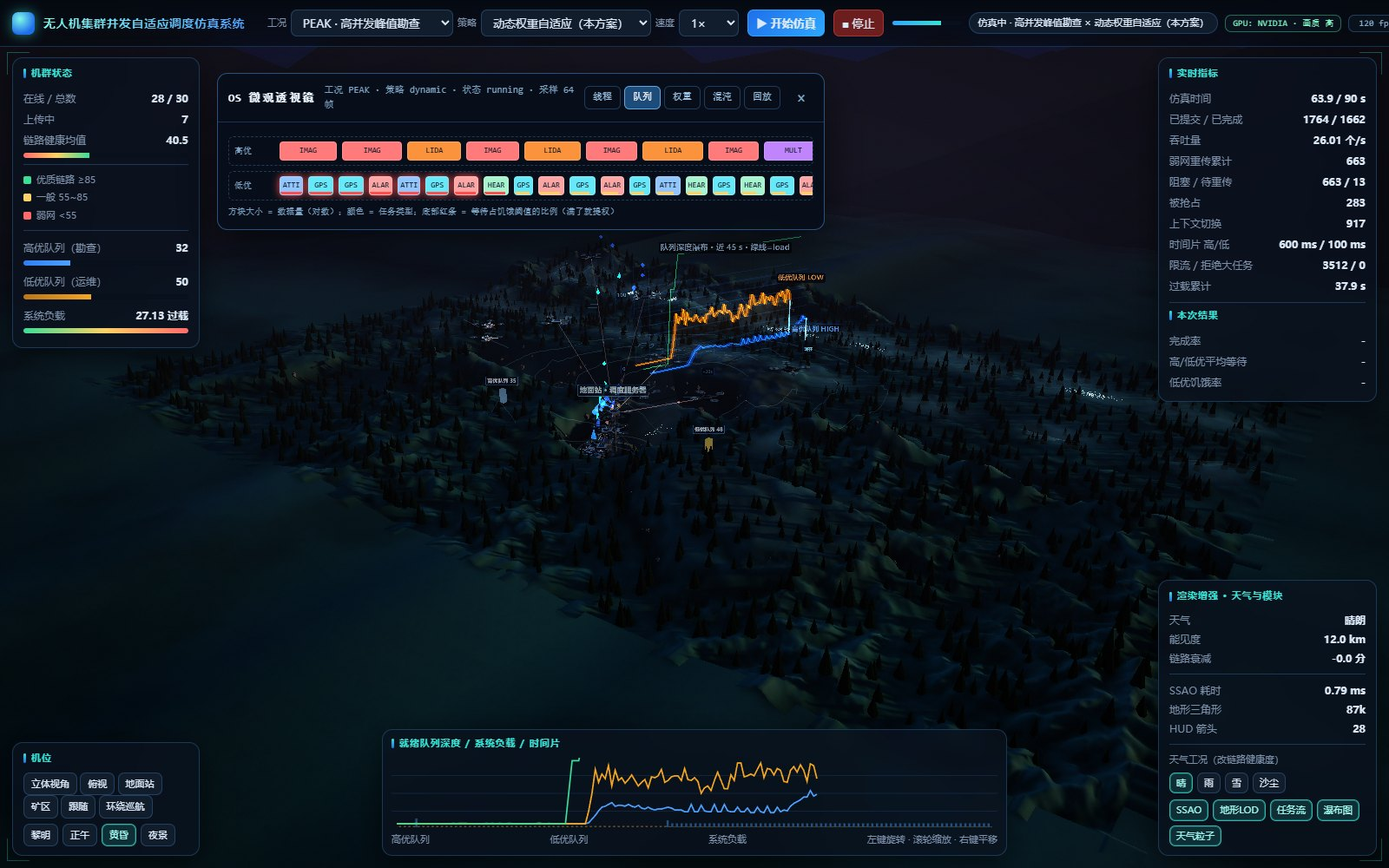
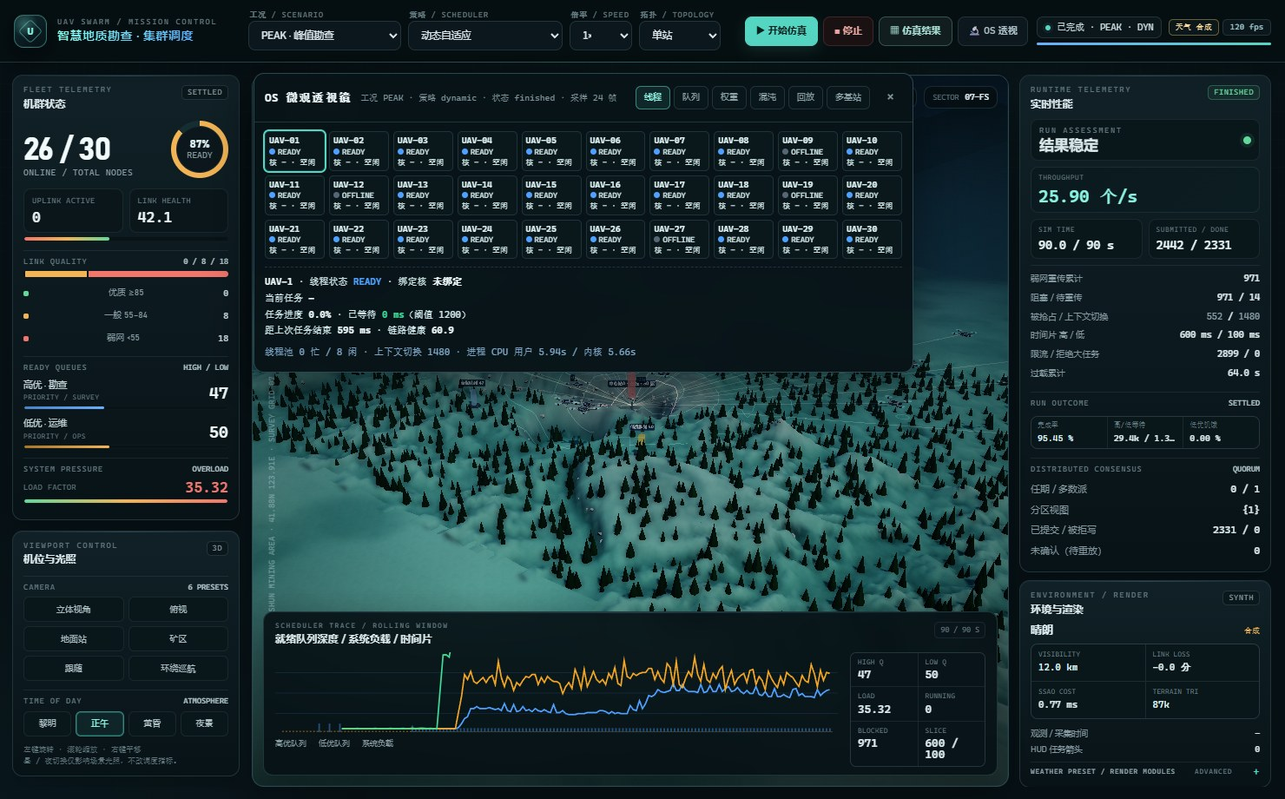
Rewrite UAV scheduling project page from the real project
- 完整读完 README 与 docs/01/04/06/11/12，重写项目页：桌面 3D 监控台、真实 DEM、五张实验矩阵、153 个测试
- 补上项目自己的指标口径批判：95% 完整率背后 HIGH 完成率仅 32.4%，静态优先级 60.3%
- 补上参数敏感性与负面发现：弱网加剧时链路感知没有时延优势
- 表格改为窄列，修复 PaperMod 的 table word-break: keep-all 导致的中文表格横向溢出
- 项目卡片文案改为「桌面 3D 监控台 · 6 种策略 · 5 张实验矩阵」

diff --git a/assets/css/extended/06-projects.css b/assets/css/extended/06-projects.css
@@ -93,6 +93,13 @@
   line-height: 1.75;
 }
 
+/* PaperMod ships `word-break: keep-all` on tables, so CJK cells refuse to
+   wrap and narrow project columns get a horizontal scrollbar. */
+.project-body table {
+  word-break: normal;
+  overflow-wrap: anywhere;
+}
+
 .project-side {
   position: sticky;
   top: calc(var(--header-h) + var(--space-lg));

diff --git a/content/projects/uav-sched-sim.md b/content/projects/uav-sched-sim.md
@@ -2,7 +2,7 @@
 slug: "uav-sched-sim"
 title: "无人机集群自适应调度仿真系统"
 titleLines: ["无人机集群自适应", "调度仿真系统"]
-description: "把矿区无人机集群的上传拥堵、任务饥饿、峰值过载与弱网失衡，下沉为线程调度、多级队列、动态权重与并发限流；3 工况 × 5 策略对照实验，外加跨节点负载均衡与 MEC 边缘计算。"
+description: "把矿区无人机集群的上传拥堵、任务饥饿、峰值过载与弱网失衡，下沉为线程调度、多级队列、动态权重与并发限流；桌面 3D 监控台 + 五张对照实验矩阵 + 可回溯的证据链。"
 date: 2026-11-02T14:30:00+08:00
 lastmod: 2026-11-02T14:30:00+08:00
 repo: "https://github.com/xuanwoLQL/uav-sched-sim"
@@ -17,129 +17,200 @@ comments: false
 
 ## 一句话
 
-同一份任务轨迹（固定 seed 离线生成），换调度策略各跑一遍，用统一口径的指标证明「多级队列 + 动态权重 + 饥饿补偿 + 限流稳流 + 链路感知」到底改善了什么、代价又是什么。
+同一份任务轨迹（固定 seed 离线生成），换调度策略各跑一遍，用统一口径的指标回答两件事：**多级队列 + 动态权重 + 饥饿补偿 + 限流稳流 + 链路感知到底改善了什么，代价又是什么。**
 
-这是《操作系统》课程实训工程：纯 Python 多线程，没有 asyncio、没有重型框架，核心逻辑只用标准库的 `threading` / `queue` / `concurrent.futures` / `statistics`。
+这是《操作系统》课程实训工程，但它不是一份跑分脚本，而是三样东西叠在一起：
+
+| 形态 | 是什么 | 入口 |
+| --- | --- | --- |
+| **仿真内核** | 纯 Python 多线程，13 个核心模块，可批处理复现实验 | `run.py all` |
+| **桌面 3D 监控台** | pywebview + WebView2 + Three.js，真实 DEM 地形、30 架无人机、OS 透视镜 | `启动仿真软件.bat` / 13.9 MB 单文件 exe |
+| **证据链** | CSV / JSON / MySQL 长表 / 10 类图表 / 结果界面 / Trace 回放 | `results/`、`📊 仿真结果` |
+
+仿真内核只用标准库的 `threading` / `queue` / `concurrent.futures` / `statistics`，没有 asyncio，也没有调度框架；展示层才用 pywebview 与 Three.js。
 
 ## 四层映射：业务故障 → OS 原理
 
-项目的起点不是「写一个调度算法」，而是五类现场故障。每一类都要先落到操作系统原理，再写成算法，最后拿指标验证。
+| 业务现象 | OS 原理 | 算法对策 |
+| --- | --- | --- |
+| 30 架机同时上传，地面站通道被打满 | 多生产者并发写就绪队列 → 队列溢出 / 背压 | 双队列隔离 + 容量上限 + 满则计数丢弃 |
+| 心跳、GPS、告警长期传不上去 | 任务饥饿：低优先级等待时间无上界 | 饥饿检测（>15 s）+ 硬补偿通道 + 权重倍增 |
+| 2 GB 点云排到队首，告警包全被堵住 | 队头阻塞 / 非抢占调度的护航效应 | 时间片 + 真实抢占，时间片随拥堵自适应 |
+| 瞬时峰值把 CPU / IO 打满 | 资源耗尽 + 缺少并发限流 → 雪崩 | 并发许可 + 非阻塞准入，拿不到就留在队列错峰 |
+| 弱网任务反复重传、抢走通道 | I/O 阻塞未降级 + 设备状态未参与调度 | 链路健康度并入权重，<40 降权 0.6，失败本地缓存 |
+| 参数全部人工预设，换工况就失配 | 静态优先级 / 固定时间片 | 四因子权重实时计算，不依赖手工整定 |
 
-| 业务现象 | OS 原理 | 算法对策 | 可观测证据 |
-| --- | --- | --- | --- |
-| 30 架机同时上传，地面站通道被瞬时打满 | 多生产者并发写就绪队列 → 队列溢出 / 背压 | 双队列隔离 + 容量上限 + 满则计数丢弃（不阻塞生产者） | `peak_queue_depth`、`max_high_depth`、`max_low_depth` |
-| 心跳、GPS、告警长期传不上去，设备「失联」 | 任务饥饿：低优先级进程等待时间无上界 | 饥饿检测（等待超阈值）+ 硬补偿通道 + 权重倍增 | `starvation_rate_low`、任务级 `wait_ms` 排序 |
-| 2 GB 点云排到队首，后面的告警包全被堵住 | 队头阻塞 / 非抢占调度的护航效应 | 时间片 + 真实抢占（未完成回队尾），时间片随拥堵自适应 | `context_switch`、`avg_requeue`、`p95_wait_high_ms` |
-| 瞬时峰值把 CPU / IO 打满，服务阻塞 | 资源耗尽 + 缺少并发限流 → 雪崩 | 并发许可 + 非阻塞准入：拿不到许可就留在队列错峰 | `throttle_count`、`overload_seconds`、`running_count ≤ 8` |
-| 弱网任务反复重传、抢走通道，好链路反而排不上 | I/O 阻塞未降级 + 设备状态未参与调度 | 链路健康度并入权重；健康度低于 40 降权 0.6；失败的转本地缓存退避 | `retry_rate`、`cached` 计数、`link_sample.health` |
+每一行都有对应的可观测证据：队列深度、低优饥饿率、上下文切换与 P95 等待、限流与过载秒数、重传率与缓存条数、参数敏感性三组对照。具体字段名与 SQL 查询见 `docs/04` 与 `docs/05`。
 
 完整 20 行映射（含代码位置与证据表）在仓库的 `docs/04-四层映射对照表.md`。
 
-## 系统怎么搭
+## 架构与关键实现
 
-| 模块 | 职责 | 关键实现 |
+| 模块 | 职责 | 关键点 |
 | --- | --- | --- |
 | 仿真内核 | 30 个生产者线程按预生成时刻表提交任务，8 个工作线程消费 | `simulator.py`、`station.py` |
-| 两级就绪队列 | 高优勘查队列 / 低优运维队列，各自计算拥堵度 | `queue_manager.py` |
+| 两级就绪队列 | 高优勘查 / 低优运维，各自计算拥堵度 | `queue_manager.py` |
 | 任务状态机 | `NEW / READY / RUNNING / BLOCKED / CACHED / DONE / DROPPED` | `models.py` |
 | 资源限流 | `OK / THROTTLE / REJECT_LARGE / QUOTA` 四种准入结果 | `resource_limiter.py` |
-| 链路模型 | 时延、丢包、RSSI 综合成 0~100 健康度，既折算有效带宽，也决定失败概率 | `link_monitor.py` |
-| 调度器 | 5 种经典策略 + 1 种跨节点策略，统一接口 | `scheduler/*.py` |
-| 落地 | 指标进 MySQL 长表，图表进 `results/`，实验可回放 | `db.py`、`experiment.py`、`visualize.py` |
+| 链路模型 | 时延、丢包、RSSI → 0~100 健康度，既折算带宽也决定失败概率 | `link_monitor.py` |
+| 调度器 | 5 种经典策略 + `cross_node` 跨节点策略，统一接口 | `scheduler/*.py` |
+| 分布式 | 每站一套线程池 / 队列 / 限流器，接入站 ≠ 算力站 | `station.py`、`mec.py` |
+| 统计 | t 分位数、95% 置信区间、配对检验（零第三方依赖） | `statistics.py`、`replication.py` |
+| 持久化 | MySQL 8 表 1 视图，数据库不可用时优雅降级为 CSV/JSON | `db.py`、`sql/01_schema.sql` |
 
-关键约束是**控制变量**：任务到达与链路质量全部离线预生成为轨迹，5 种策略只是回放同一条输入，服务时长、限流参数和指标口径完全共用。这样策略之间的差异才是算法差异，不是随机数差异。
+关键约束是**控制变量**：任务到达与链路质量离线预生成为轨迹，5 种策略只回放同一条输入。测试里直接断言「同 `(code, seed)` 两次生成的轨迹逐元素相同」，并用 SHA-256 + 1e-9 精度守住单站基线。
 
 ## 六种调度策略
 
-| 策略 | 一句话 | 在实验里的角色 |
+| 策略 | 一句话 | 角色 |
 | --- | --- | --- |
-| `fcfs` | 全局先来先服务，跨两个物理队列按到达顺序取 | 最公平的基线，用来暴露护航效应 |
-| `rr` | 固定 500 ms 时间片，未完成回队尾 | 基线：轮转能救饥饿，但切换开销高 |
-| `priority` | 高队列非空则低队列永远轮不到 | 反面教材：刻意复现饥饿 |
-| `mlfq` | 分层时间片 300 / 800 ms，低队列等超 1500 ms 可升权 | 经典解法，饥饿率降到 0 |
-| `dynamic` | 四因子动态权重 `W = base × (w0 + αQ + βW + γL) × (1 − δS)`，叠加饥饿硬补偿与弱网降权 | 本方案主角 |
-| `cross_node` | 在多基站之间做一致性哈希 + 负载感知再平衡 | 能力扩展：站间不均衡度下降一个数量级 |
+| `fcfs` | 跨两个物理队列按全局到达顺序取 | 基线，暴露护航效应 |
+| `rr` | 固定 500 ms 时间片，未完成回队尾 | 基线：能救饥饿，切换开销高 |
+| `priority` | 高队列非空则低队列永远轮不到 | 反面教材：复现饥饿 |
+| `mlfq` | 300 / 800 ms 分层时间片，低队列等超 1500 ms 升权 | 经典解法 |
+| `dynamic` | `W = base × (w0 + αQ + βW + γL) × (1 − δS)`，叠加饥饿硬补偿与弱网降权 | 本方案主角 |
+| `cross_node` | 继承 `dynamic`，站间再做最少连接 + 一致性哈希（64 虚拟节点） | 分布式扩展 |
 
-`dynamic` 的四个因子分别是队列拥堵度 `Q`、已等待时长 `W`、链路健康度 `L` 和系统负载 `S`。拥堵的队列多拿资源，等久的低优任务被补偿，弱网任务降权，系统过载时整体收敛。
+`cross_node` 最初被写成独立的严格优先级调度，单站完整率只有 31.7%；重构为继承 `dynamic` 后回到 95.6%。**跨节点均衡解决的是站与站之间的不均，不能替掉站内的公平性与过载收敛。**
 
-## 实验设计：3 工况 × 5 策略
+## 五张实验矩阵
 
-| 项 | 数值 |
-| --- | --- |
-| 工况 | 轻载日常巡检 / 中载常规勘查 / 高并发峰值勘查 |
-| 规模 | 30 架无人机、90 仿真秒、峰值工况 2756 条到达事件 |
-| 对照矩阵 | 3 × 5 = 15 组，另有第 6 种策略 `cross_node` 与多站矩阵 |
-| 指标 | 24 个统一口径指标；多基站 / MEC 另定义 18 个站级指标键 |
-| 数据量 | 15 条 experiment、360 条 exp_metric、14776 条 task_record、1800 条 queue_sample、16604 条 link_sample |
+| 矩阵 | 规模 | 产物 |
+| --- | --- | --- |
+| 基础对照 | 3 工况 × 5 策略 = 15 组 | `results/summary.csv`（15 行 × 24 指标）+ 7 张图 |
+| 天气对照 | 4 天气 × 5 策略 = 20 组 | `results/weather_matrix.csv` + 图表 08 |
+| 多站对照 | 3 工况 × 6 策略 = 18 组 | `results/stations/stations_matrix.csv` + 图表 10 |
+| MEC 对照 | PEAK × 3 模式 × 2 策略 = 12 组 | `results/mec/mec_matrix.csv` |
+| 重复 / GPU | 每格 N 次（CRN）+ CUDA 3000 次 | `results/replications/`、`results/gpu/` |
 
-所有组共用同一个 `random.Random(seed)` 顺序消费生成轨迹，测试里直接断言「同 `(code, seed)` 两次生成的轨迹逐元素相同」。
+规模：轻载 30 s / 5 架，中载 60 s / 15 架，峰值 90 s / 30 架、2767 个事件。标定负载率分别是 **0.21 / 0.78 / 1.57**，与 PDF 的「极少 / 偶尔 / 频繁严重堆积」逐档对应。
 
-## 结果：不只看均值，还看抖动
+完整一轮跑完约 100 秒，落 15 条 experiment、360 条 exp_metric、14776 条 task_record、1800 条 queue_sample、16604 条 link_sample。
 
-仿真依赖真实时钟，同一组实验重复跑有 3~5% 的抖动，单次结果分不清算法差异和运行噪声。于是补了一条 CUDA 分析模型：**一个 CUDA 线程 = 一次完整仿真**，用共同随机数做配对比较。
+## 真实结果：先看峰值工况
 
-RTX 3050 Laptop，`--reps 3000`，均值 ± 95% 置信半宽：
+PEAK 工况、seed 20261031，15 组中的 5 行（`results/summary.csv`）：
 
-| 策略 | 3000 次耗时 | 吞吐（任务/秒） | 低优平均等待 | 低优饥饿率 | 业务完整率 |
-| --- | ---: | ---: | ---: | ---: | ---: |
-| FCFS | 251 ms | 21.64 ± 0.13 | 6558 ± 112 ms | 8.31 ± 0.28 % | 69.26 ± 0.40 % |
-| RR | 285 ms | 29.78 ± 0.03 | 803 ± 13 ms | 0.00 % | 95.32 ± 0.06 % |
-| 静态优先级 | 133 ms | 8.84 ± 0.10 | 869 ± 9 ms | 0.55 % | 28.30 ± 0.31 % |
-| 动态权重 | 258 ms | 28.07 ± 0.04 | 3680 ± 23 ms | 0.48 % | 89.79 ± 0.15 % |
-| MLFQ | 313 ms | 29.69 ± 0.02 | 1580 ± 10 ms | 0.00 % | 94.94 ± 0.03 % |
+| 策略 | 吞吐（个/s） | 等待 高 / 低 | 低优饥饿率 | 业务完整率 |
+| --- | ---: | ---: | ---: | ---: |
+| FCFS | 15.14 | 34.3 / 24.1 s | 66.2 % | 55.8 % |
+| RR | 25.13 | 25.9 / 2.26 s | 0.2 % | 92.4 % |
+| 静态优先级 | 8.86 | **21.3** / 29.9 s | 65.7 % | 32.6 % |
+| MLFQ | **26.04** | 26.0 / **1.11 s** | **0.0 %** | **95.9 %** |
+| 动态权重 | 25.86 | 29.9 / 1.34 s | **0.0 %** | 95.2 % |
 
-15000 次仿真约 1.24 秒，约 12097 次/秒，置信区间收窄到 0.1% 量级。
+几件必须一起说的事：
 
-两个结论值得单独写出来：
+- 静态优先级把 8 个槽位几乎全给了勘查任务：高优等待最低（21.3 s）、资源利用率最高（72.6%），但低优饥饿率 65.7%，**这就是 PDF 痛点④的教科书式复现**。
+- FCFS 并不"保护弱者"：大任务护航让告警小包排在巨量数据后面，饥饿率同样 66.2%。
+- 动态权重用 1443 次上下文切换（比 MLFQ 的 2135 少 32%），维持了同一档吞吐与完整率，并保持零饥饿；代价是高优等待比 MLFQ 更长——它愿意让低优任务先过。
 
-1. **模型确认通过**：最差策略 `priority` 的吞吐偏差只有 −0.2%，MLFQ 完整率偏差 −1.0%，策略排序与参考模型一致。
-2. **参数扫描给了个反直觉结果**：α / β / γ / δ 对业务完整率的影响约 0.00 个百分点，而饥饿阈值 `starvation_ms` 的影响高达 47.8 个百分点。在 PEAK 过载下，绝大多数低优任务是被「饥饿硬补偿通道」直接救出来的，四因子权重根本没参与决策。所以报告里不该把「动态权重公式」当成主要卖点——这条写进了 `gpu/README.md` 第 5 节。
+## 最值得看的一张表：95% 完整率并不等于核心数据不丢
+
+`completion_rate` 按**任务条数**统计，而 PEAK 里勘查任务只占条数的 2.8%，运维任务占 97.2%。把优先级拆开（`docs/01` §A.3）：
+
+| 策略 | 勘查任务数 | 勘查完成率 | 运维完成率 |
+| --- | ---: | ---: | ---: |
+| 静态优先级 | 68 | **60.3 %** | 31.8 % |
+| FCFS | 68 | 38.2 % | 56.3 % |
+| 动态权重 | 68 | **32.4 %** | 97.0 % |
+| MLFQ | 68 | 22.1 % | 98.0 % |
+| RR | 68 | 17.6 % | 94.5 % |
+
+结论很刺眼，但项目没有回避：
+
+1. 按条数看，动态 / MLFQ / RR 的 92%~96% 远好于静态优先级的 32.6%；
+2. 按核心业务看，**静态优先级反而最高（60.3%）**，因为它不为公平性让路；
+3. 动态权重的定位是「愿意为运维让路的策略里，勘查完成率最高」，是折中点最优，**不是全面最优**。
+
+这也是页面标题不写「最优调度」的原因。改进方向已经写进文档：按字节加权统计完整率、对 HIGH 任务不做弱网降权、给饥饿硬通道加每轮配额。
+
+## 参数敏感性：静态参数为什么不可靠
+
+固定 PEAK 工况，只改一个参数：
+
+| 对照 | 低优等待 | 低优饥饿率 | 业务完整率 |
+| --- | ---: | ---: | ---: |
+| MLFQ aging 1500 → 6000 ms | 1.11 → 4.02 s | 0 % | 95.7 → 91.6 % |
+| RR 时间片 120 → 500 → 3000 ms | 0.66 → 2.20 → 8.76 s | 0 → 0.2 → 27.0 % | 96.1 → 92.3 → 75.3 % |
+| 弱网加剧（`retry_gain` 0.5 → 0.9） | dynamic 1.99 s / mlfq 1.17 s | 0.1 % / 0 % | 93.2 % / 95.2 % |
+
+同一算法换个参数就从 96% 掉到 75%，不存在一个"最好的固定时间片"。**这条实验就是 PDF 痛点④「静态参数固化」的量化证据。**
+
+第三组还记录了一个负面结果：弱网加剧后，动态权重的高优时延反而最高（33.0 s vs MLFQ 28.1 s）——「本地缓存」把弱网任务推迟得更久，抬高了均值。**链路感知在这组实验里没有表现出时延优势**，项目把它原样写进了改进方向。
+
+## GPU：把「跑一次」变成「跑三千次」
+
+Python 参考模型要跑几万次不现实，于是写了 CUDA 分析模型：**一个线程 = 一次完整仿真**，五个策略语义与 Python 版一一对应，所有重复共享共同随机数做配对比较。
+
+RTX 3050 Laptop，`--reps 3000`（单策略 133~313 ms 跑完）：
+
+| 策略 | 吞吐 | 低优平均等待 | 低优饥饿率 | 业务完整率 |
+| --- | ---: | ---: | ---: | ---: |
+| FCFS | 21.64 | 6.56 s | 8.31 % | 69.26 % |
+| RR | 29.78 | 0.80 s | 0.00 % | 95.32 % |
+| 静态优先级 | 8.84 | 0.87 s | 0.55 % | 28.30 % |
+| 动态权重 | 28.07 | 3.68 s | 0.48 % | 89.79 % |
+| MLFQ | 29.69 | 1.58 s | 0.00 % | 94.94 % |
+
+上表为 3000 次均值，95% 置信半宽都很小：吞吐 ≤ 0.13、时延 ≤ 112 ms、饥饿率 ≤ 0.28 个百分点、完整率 ≤ 0.40 个百分点。15000 次仿真约 1.24 秒，约 12097 次/秒。
+
+参数扫描还给出一个反直觉结论：α / β / γ / δ 四因子对业务完整率的影响约 **0.00 个百分点**，而饥饿阈值 `starvation_ms` 的影响高达 **47.8 个百分点**。在 PEAK 过载下，绝大多数低优任务是被「饥饿硬补偿通道」直接救出来的，四因子权重根本没参与决策。所以报告里不该把权重公式当主要卖点——这条写在 `gpu/README.md` 第 5 节。
 
 > GPU 内核是**分析模型**，不是参考模型的逐位复刻（未含离线标定轨迹、任务分片、单机配额、天气扰动）。它只用于策略排序与效应方向的统计推断，不能替代参考模型给绝对指标。
 
-## 多基站与 MEC：均衡是有代价的
+## 多基站 / MEC / 最小 quorum
 
-| 策略 | 模式 | 端到端时延 | 平均等待 | 完整率 | 站间不均衡度 |
-| --- | --- | ---: | ---: | ---: | ---: |
-| `dynamic` | 纯中心 | 122.7 ms | 2139 ms | 95.02 % | 0 |
-| `dynamic` | 端-边-云 | 106.4 ms（−13.3 %） | 1842 ms | 96.15 % | 1.401 |
-| `cross_node` | 纯中心 | 140.5 ms | 2071 ms | 94.93 % | 0 |
-| `cross_node` | 端-边-云 | 106.3 ms（−24.3 %） | 1864 ms | 95.70 % | 1.399 |
-| `dynamic` | 多站-无 MEC | 96.9 ms | 1971 ms | 95.21 % | 0.534 |
-| `cross_node` | 多站-无 MEC | 124.5 ms | 2190 ms | 95.16 % | **0.099** |
+把单机内核扩成 N 个基站，每站一套独立的线程池、队列与限流器。**接入站 ≠ 算力站**：迁移只搬任务，不改无人机接入点。
 
-- **端-边-云降端到端时延**：−13.3% / −24.3%，两次方向一致。
-- **`cross_node` 的价值在多站-无 MEC 档最清楚**：站间不均衡度 0.534 → 0.099，同一代码两次运行在 0.02~0.10 波动，稳定结论是「下降一个数量级」。
-- **代价必须一起写**：1053 次迁移、平均迁移代价 519.8 ms，平均等待从 1971 ms 涨到 2190 ms（约 +11%）。均衡度是用等待换来的。
-- **端-边-云档不均衡度降不下来（1.399）**：MEC 角色硬约束把重勘查任务钉在中心站，站间负载结构性地分开，这是设计要求，不是缺陷。
+| 场景 | 端到端时延 | 完整率 | 站间不均衡度 |
+| --- | ---: | ---: | ---: |
+| `dynamic` · 纯中心 | 122.7 ms | 95.02 % | 0 |
+| `dynamic` · 端-边-云 | 106.4 ms（−13.3 %） | 96.15 % | 1.401 |
+| `cross_node` · 端-边-云 | 106.3 ms（−24.3 %） | 95.70 % | 1.399 |
+| `dynamic` · 多站-无 MEC | 96.9 ms | 95.21 % | 0.534 |
+| `cross_node` · 多站-无 MEC | 124.5 ms | 95.16 % | **0.099** |
 
-另外补了一致性哈希再平衡（增删站只迁约 1/N 的键）和分区期间的最小 quorum 共识，都用测试覆盖了脑裂、节点宕机与分区恢复。
+- **均衡是有代价的**：`cross_node` 把站间不均衡度从 0.534 压到 0.099（下降一个数量级），代价是 1053 次迁移、平均 519.8 ms，平均等待从 1971 ms 涨到 2190 ms（**+11%**）。
+- **端-边-云降时延**：−13.3% / −24.3%，方向一致；MEC 档不均衡度降不下来（1.399）是因为角色硬约束把重勘查钉在中心站，这是设计而非缺陷。
+- **一致性哈希再平衡**：加站 3→4 只重映射 28.82%，删站 3→2 是 30.30%，且变化方向全部单调。
+- **最小 quorum（教学用，不是 Raft）**：N=3 脑裂 `{1} | {2,3}` 时，少数派完成的 1 个任务被回滚，多数派提交 2 个；恢复后重放，3 个任务一个不丢。
 
-## 可观测性：把调度过程摊开
+## 3D：真实地形、SSAO 与 120 帧
 
-### 3D 仿真场景
+桌面版不是"网页套壳"，而是 pywebview + 系统 WebView2 的原生窗口，关窗即退，没有地址栏。场景里的地形是**真实 DEM**：
 
-真实 DEM 地形、SSAO、地形 LOD、雨 / 雪 / 沙尘天气、无人机模型与链路连线。链路颜色随健康度变化，地面站负载圈层由绿到红，队列深度和系统负载在底部实时画曲线。
+| 项 | 值 |
+| --- | --- |
+| 数据源 | AWS `elevation-tiles-prod`（Mapzen Terrarium，NASA SRTM 等多源合成，免密钥） |
+| 区域 | 辽宁抚顺西露天矿及周边，坑长约 6.6 km，最深处约 −420 m |
+| 网格 | 1024 × 760，14.2 m/px，海拔 −281 ~ +237 m，覆盖 14.6 × 10.8 km |
+| 优化 | 4 级地形 LOD clipmap（76k 三角形）、真 SSAO、30 架机 482 draw call |
+| 天气 | 雨 / 雪 / 沙尘粒子 + 能见度衰减 + 色彩分级，与链路健康度联动 |
 
-### OS 微观透视镜
+按 WebGL 渲染器自动分三档（独显 high / 核显 medium / 软件渲染 cpu），顶栏直接显示实际后端与帧率。RTX 3050 上四场景各采样 12 s：**117.8 ~ 120 fps，P99 11.0 ~ 11.7 ms，掉帧率 0%**；把像素量放大 9 倍仍保持 117.8 ~ 120 fps。
 
-![OS 微观透视：两级就绪队列传送带，方块大小=数据量、颜色=任务类型、红条=饥饿倒计时](/images/projects/uav-sched-sim/os-inspector.jpg)
+天气不只是视觉：沙尘把链路健康度均值从 42.78 压到 18.02，劣质链路占比 54.0% → 94.4%；同一沙尘批次里，动态权重完成率 92.3%、静态优先级 31.3%，低优饥饿率 0% vs 52.6%。
+
+## OS 微观透视与混沌工程
+
+![OS 微观透视：30 个线程的五态、两级就绪队列传送带、四因子权重天平与混沌注入](/images/projects/uav-sched-sim/os-inspector.jpg)
 
 | 页签 | 看什么 |
 | --- | --- |
 | 线程 | 30 架机 = 30 个线程，五态色块、绑核 `C0~C7`、当前任务、等待与切换间隔 |
-| 队列 | 两级队列的传送带，方块大小是数据量，颜色是任务类型，底部红条是饥饿倒计时 |
-| 权重 | 四因子雷达 + 高 / 低候选的权重天平，标出「饥饿提权 / 弱网降权」 |
-| 混沌 | 弱网风暴 / 并发洪峰 / 死锁注入 + 看门狗回收计数 |
+| 队列 | 两级队列传送带，方块大小=数据量，颜色=任务类型，红条=饥饿倒计时 |
+| 权重 | 四因子雷达 + 高 / 低候选权重天平，标出「饥饿提权 / 弱网降权」 |
+| 混沌 | 弱网风暴 / 并发洪峰 / 死锁注入 + 节点宕机 / 网络分区 / 脑裂 |
 | 回放 | 600 帧环形缓冲拖动复盘，Trace 可导出 JSON / CSV |
 
-三个混沌注入都做了真实现：弱网风暴把选中 40% 的无人机 `p_fail × 2.5`；并发洪峰一次塞 500 个高优任务，实测高优队列冲到 507、系统负载 348、限流触发；死锁注入后看门狗 3 仿真秒判定并强制回收。
+三个混沌注入都是真实现：弱网风暴把 40% 无人机的 `p_fail × 2.5`；并发洪峰一次塞 500 个高优任务，实测高优队列冲到 507、系统负载 348；死锁注入后看门狗 3 仿真秒判定并强制回收。
 
-### 仿真结果界面
+## 结果界面：不用再翻文件夹找图
 
-![仿真结果界面：按目录分组的实验图表，每张标生成时间与文件大小](/images/projects/uav-sched-sim/results.jpg)
+![仿真结果界面：按目录分组的图表、15 组矩阵、时序回放与置信区间](/images/projects/uav-sched-sim/results.jpg)
 
-五个页签把图表、15 组矩阵、时序回放、置信区间放在一个遮罩里，不用再翻文件夹找图：
+五个页签把图表、15 组矩阵、时序回放、置信区间放在一个遮罩里：
 
 - **本次运行**：14 项 KPI + 实时进度 + 每站一张表；
 - **图表**：按目录分组，每张标生成时间，避免拿旧图当新结论；
@@ -147,11 +218,11 @@ RTX 3050 Laptop，`--reps 3000`，均值 ± 95% 置信半宽：
 - **时序回放**：拖滑块看高优队列、低优队列和系统负载随时间变化；
 - **置信区间**：变体 × 指标 × 策略的 `mean ± ci95_half (n)`。
 
-界面上还能一键重跑实验、对比两份明细、导出报告素材包（zip 里自动生成 `结论摘要.md`）。`/results_img` 这类会读本地磁盘的接口做了白名单目录 + 图片扩展名双闸，`../`、绝对路径、非图片一律 404，测试里有 7 个目录穿越反例。
+界面上还能一键重跑实验、对比两份明细、导出报告素材包。`/results_img` 这类读本地磁盘的接口做了白名单目录 + 图片扩展名双闸，`../`、绝对路径、非图片一律 404，测试里有 7 个目录穿越反例。
 
-## 真实环境数据
+## 真实数据：采集 → 录制 → 回放
 
-天气线走「采集 → 录制 → 回放」：Open-Meteo 免费免 key 采集一次快照，之后离线回放，不把小时级气象伪造成秒级动态。
+天气线用 Open-Meteo（免费免 key）采集一次快照，之后离线回放，不把小时级气象伪造成秒级动态。
 
 | 项 | 结果 |
 | --- | --- |
@@ -160,17 +231,20 @@ RTX 3050 Laptop，`--reps 3000`，均值 ± 95% 置信半宽：
 | 实时采集 vs 快照回放 | 25.9889 / 25.8000，相对差 0.73% |
 | 既有同代码抖动基线 | ≤ 1.12% |
 
-默认 `real.enable=false`，所以 15 组矩阵与既有基线仍走内置合成天气；真实模式只作为独立演示面，顶栏和结果界面会标「天气 合成」或「天气 真实 · 观测时间」。
+默认 `real.enable=false`，15 组矩阵仍走内置合成天气；真实模式只作为独立演示面，界面会标「天气 合成」或「天气 真实 · 观测时间」。
 
 ## 工程化
 
 | 项 | 状态 |
 | --- | --- |
-| 测试 | 17 个测试文件、140+ 个测试函数，覆盖调度器、限流、队列、链路、统计、分布式、结果接口 |
+| 测试 | 17 个测试文件、**153 个用例**（pytest 收集），覆盖调度器 / 限流 / 队列 / 链路 / 统计 / 分布式 / 结果接口 |
 | 静态检查 | `ruff check src tests run.py` 零告警 |
-| 打包 | `pyproject.toml` 分层 extra（viz / db / dev / gpu），控制台入口 `uavsim` |
-| 发布 | Nuitka 单文件 exe，约 13 MB，免装 Python 双击即用 |
-| 敏感信息 | `config.yaml` 含数据库口令，已被 `.gitignore` 排除；仓库只跟踪脱敏的 `config.example.yaml`，运行时可覆盖为环境变量 `UAV_DB_PASSWORD` |
+| CLI | `run.py` 14 个子命令：check / calibrate / one / all / charts / weather / mec / stations / sensitivity / replicate / gpu / bench-weather / ui / demo-limiter |
+| 打包 | PyInstaller 单文件 exe 13.9 MB，含 v5 全部 3D 升级；`--paths src` 漏了会双击闪退 |
+| 打包壳 | pywebview ~10 MB，对比 Electron ~100 MB；Win11 自带 WebView2 |
+| 指标 | `METRIC_SPEC` 从 24 键扩到 **46 键**（+18 站级/MEC，+4 quorum） |
+| 数据 | MySQL 8 表 + 1 视图；数据库不可用时实验照跑，只落 CSV/JSON |
+| 敏感信息 | `config.yaml` 含数据库口令，已被 `.gitignore` 排除；仓库只跟踪脱敏的 `config.example.yaml` |
 
 ## 快速开始
 
@@ -188,24 +262,27 @@ python -m venv .venv
 # 跑全量 15 组，出图和 CSV
 .venv/Scripts/python run.py all
 
-# 打开 3D 实时可视化
-.venv/Scripts/python run.py ui
+# 打开桌面 3D 监控台（或双击 启动仿真软件.bat）
+.venv/Scripts/python app.py
 ```
 
-MySQL 是可选的：连不上时实验仍然跑完，只是不入库。要入库就先复制 `config.example.yaml` 为 `config.yaml`，口令只放在本地或环境变量里。
+想看更多维度：`run.py weather`（20 组）、`run.py stations`（18 组）、`run.py mec`（12 组）、`run.py replicate --reps 10`、`run.py gpu --reps 3000`。
 
 ## 诚实的边界
 
+- **核心业务仍未达标**：动态权重的勘查任务完成率只有 32.4%，"95% 完整率"是被 97% 的运维任务抬起来的。
+- **动态权重不是全面最优**：PEAK 下高优等待比 MLFQ 更长，弱网加剧时甚至最高；它换的是零饥饿与更少切换。
 - 单次实跑有 3~5% 的 wall-clock 抖动，小数位不代表精确值，只看效应方向与量级。
 - GPU 内核是分析模型，用于统计推断，不替代参考模型的绝对指标。
-- `cross_node` 用等待换均衡，MEC 档的站间不均衡是结构性设计。
+- 多站均衡用等待换均衡；MEC 档的站间不均衡是结构性设计。
 - 真实数据目前只接了天气，网络探测、轨迹、CPU / 内存动态限流都还没做。
 - 项目定位是课程实训与教学演示，不是生产调度器。
 
 ## 相关链接
 
 - 仓库：<https://github.com/xuanwoLQL/uav-sched-sim>
-- 设计方案：`docs/01-设计方案说明书.md`
+- 设计说明书：`docs/01-设计方案说明书.md`（含 15 组真实结果与指标口径批判）
 - 四层映射：`docs/04-四层映射对照表.md`
 - 多基站与 MEC：`docs/11-多基站与MEC边缘计算.md`
 - 真实环境数据：`docs/12-真实环境数据接入.md`
+- PDF 要求逐条对照：`docs/06-PDF要求对照与补充材料.md`
